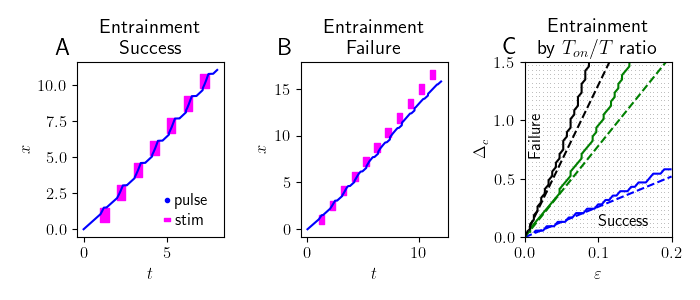
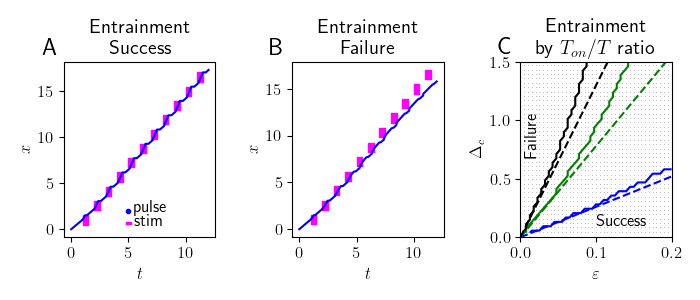
hi res figures for talks

diff --git a/pulse_experiments/figure6.py b/pulse_experiments/figure6.py
@@ -48,6 +48,7 @@ plt.rcParams.update(
 
 DATA_FILE = os.path.join(experiment_defaults.data_path, "figure6.pickle")
 FIG_FILE = os.path.join(experiment_defaults.media_path, "figure6")
+HI_RES_FIG_FILE = os.path.join(experiment_defaults.media_path, "fig6_hi_res.png")
 
 # model constants
 
@@ -139,7 +140,8 @@ stim = ApparentMotionStimulus(
 )
 max_time_step = 1e-2
 time_step = stim.period / np.ceil(stim.period / max_time_step)
-time = TimeDomain_Start_Stop_MaxSpacing(0, 8, time_step)
+time = TimeDomain_Start_Stop_MaxSpacing(0, 12, time_step)
+# time = TimeDomain_Start_Stop_MaxSpacing(0, 8, time_step)
 
 
 def rhs(t, u):
@@ -172,7 +174,7 @@ ax_success.set_ylabel("$x$")
 ax_success.set_title("Entrainment \nSuccess")
 label_x_loc = 5
 ax_success.plot(label_x_loc, 2, "b.")
-ax_success.text(label_x_loc + 0.5, 1.6, "pulse")
+ax_success.text(label_x_loc + 0.5, 1.8, "pulse")
 ax_success.fill_between(
     [label_x_loc - 0.2, label_x_loc + 0.2], [0.6] * 2, [0.8] * 2, color="magenta"
 )
@@ -237,5 +239,6 @@ for ax, label in [(ax_success, "A"), (ax_failure, "B"), (ax_contour, "C")]:
     )
 
 plt.tight_layout()
+plt.savefig(HI_RES_FIG_FILE, dpi=300)
 for ext in [".png", ".pdf"]:
     plt.savefig(FIG_FILE + ext)

diff --git a/pulse_experiments/figure2.py b/pulse_experiments/figure2.py
@@ -31,6 +31,7 @@ from helper_symbolics import (
 # Bifurcation data
 DATA_FILE = os.path.join(experiment_defaults.data_path, "smooth_bifurcation.pickle")
 IMAGE_FILE = os.path.join(experiment_defaults.media_path, "figure2")
+HI_RES_IMAGE_FILE = os.path.join(experiment_defaults.media_path, "hi_res_figure2.png")
 with open(DATA_FILE, "rb") as f:
     alphas, gammas, stable_search, unstable_search = pickle.load(f)
 alphas.sort()
@@ -425,5 +426,6 @@ ax_gamma_colorbar.text(0.5, -0.7, r"$\gamma$", transform=ax_gamma_colorbar.trans
 
 # grid.tight_layout(fig, w_pad=0.5, h_pad=-0.5)
 
+plt.savefig(HI_RES_IMAGE_FILE, dpi=300)
 for ext in [".pdf", ".png"]:
     plt.savefig(IMAGE_FILE + ext)
